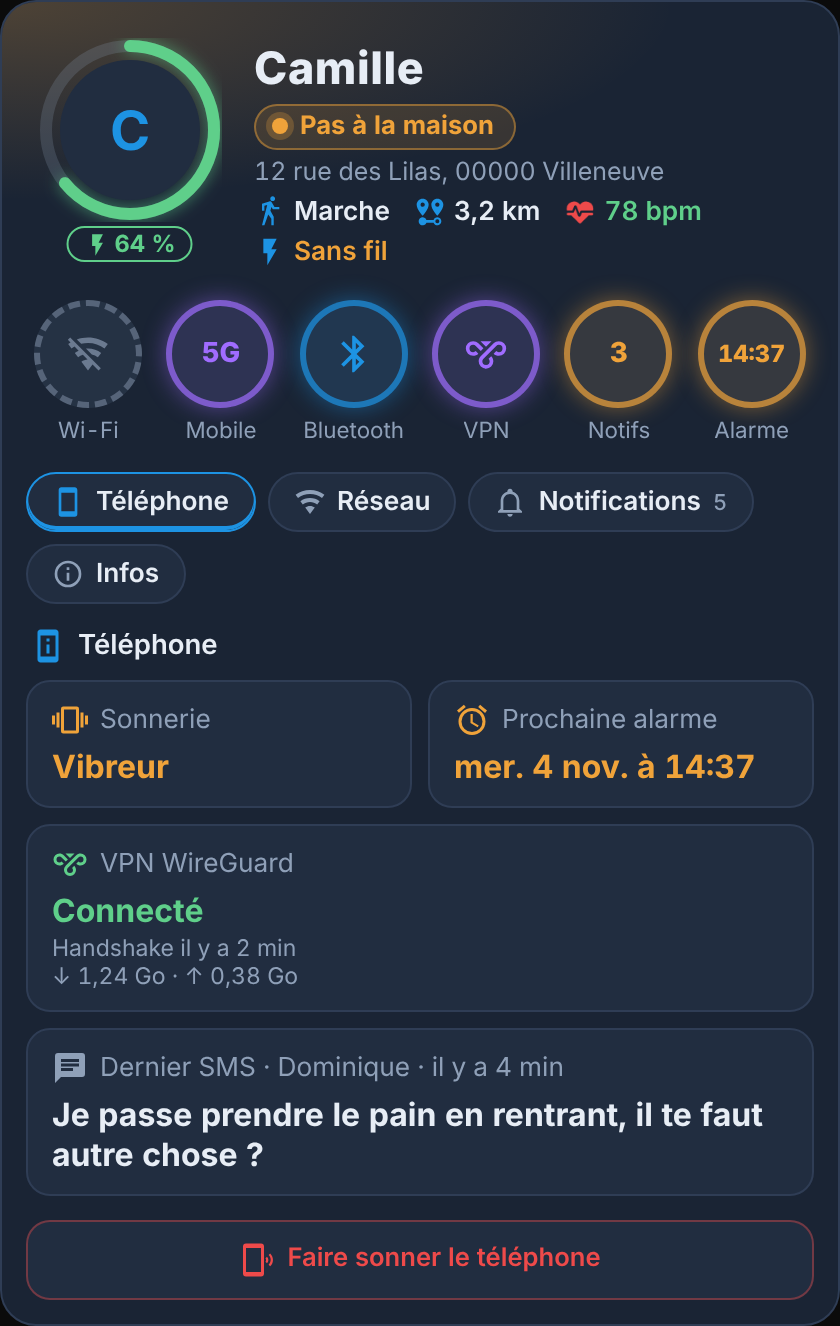
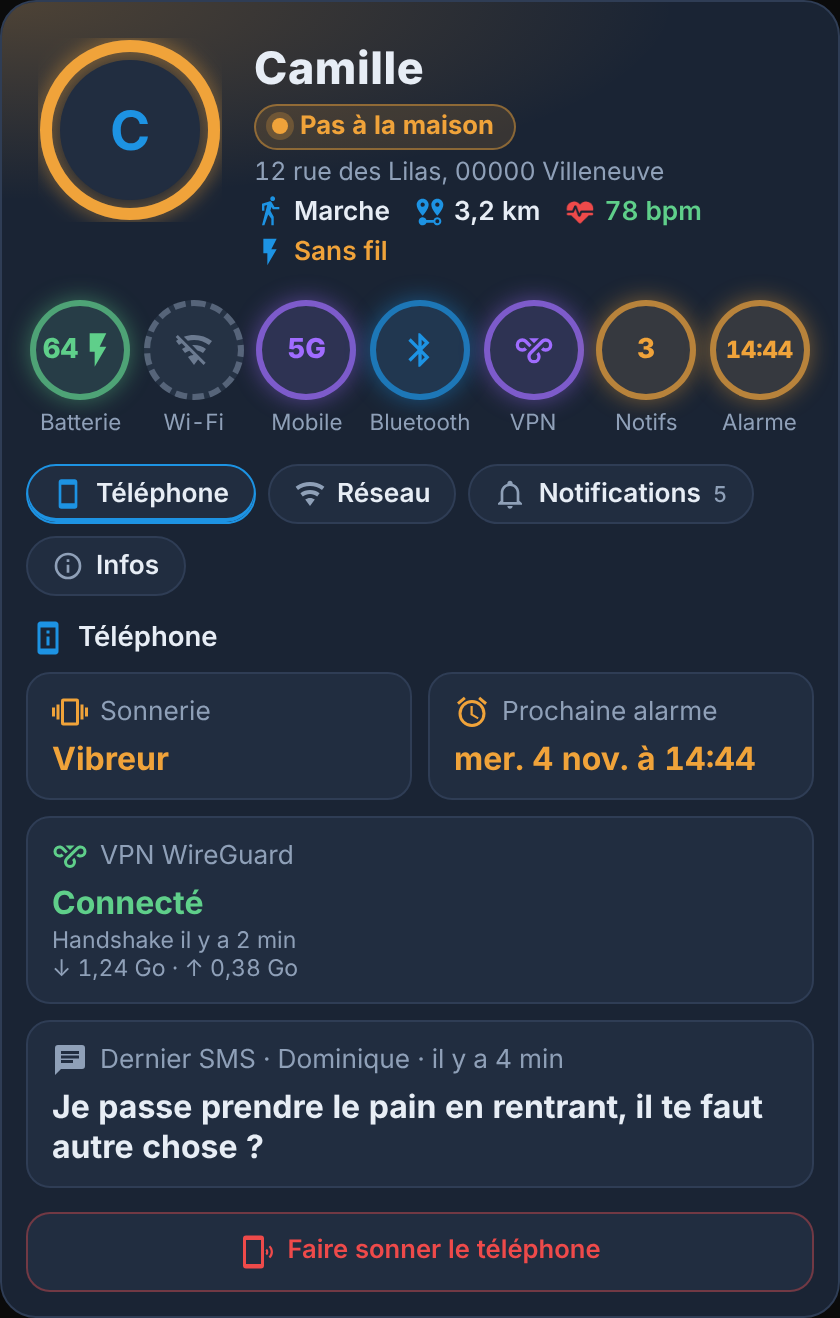
feat(web): anneau de présence vert, orange ou rouge selon la distance (1.1.0-beta.3)
Vert à la maison, orange jusqu'à near_radius km (5 par défaut), rouge au-delà ;
batterie en première pastille ronde.

Claude-Session: https://claude.ai/code/session_01CSixJnFf4qBMac7uTfNvnW

diff --git a/tracker-card.js b/tracker-card.js
@@ -12,7 +12,7 @@
  * Toutes les entités du téléphone peuvent être indiquées à la main sous « phone: ».
  */
 
-const CARD_VERSION = "1.1.0-beta.2";
+const CARD_VERSION = "1.1.0-beta.3";
 
 const define = (name, cls) => { if (!customElements.get(name)) customElements.define(name, cls); };
 const esc = (v) => String(v ?? "").replace(/[&<>"']/g, (c) => ({ "&": "&amp;", "<": "&lt;", ">": "&gt;", '"': "&quot;", "'": "&#39;" }[c]));
@@ -55,21 +55,18 @@ header { display: flex; align-items: center; justify-content: space-between; gap
 .tk-side { display: flex; align-items: center; gap: 6px; flex: none; }
 .tk-hero { --zc: var(--med-muted); position: relative; display: flex; align-items: flex-start; gap: 16px; padding: 18px 18px 12px;
   background: radial-gradient(130% 110% at 0% 0%, color-mix(in srgb, var(--zc) 24%, transparent), transparent 62%); }
-.tk-hero.home { --zc: var(--med-down); } .tk-hero.away { --zc: var(--pc-warn); }
+.tk-hero.home { --zc: var(--med-down); } .tk-hero.near, .tk-hero.away { --zc: var(--pc-warn); } .tk-hero.far { --zc: var(--t-red); }
 .tk-top { position: absolute; top: 10px; right: 14px; display: flex; gap: 6px; align-items: center; font-size: .7rem; font-weight: 600; letter-spacing: 1.5px; text-transform: uppercase; color: var(--med-muted); }
 .tk-top small { letter-spacing: 0; text-transform: none; border: 1px solid var(--med-line); border-radius: 999px; padding: 1px 8px; }
-.tk-ring { position: relative; width: 92px; height: 92px; flex: none; cursor: pointer; margin-bottom: 14px; }
+.tk-ring { position: relative; width: 92px; height: 92px; flex: none; cursor: pointer; }
 .tk-ring > svg { position: absolute; inset: 0; transform: rotate(-90deg); }
 .tk-ring circle { fill: none; stroke-width: 6; }
 .tk-ring .bg { stroke: color-mix(in srgb, var(--med-muted) 22%, transparent); }
-.tk-ring .fg { stroke: var(--bc, var(--med-muted)); stroke-linecap: round; transition: stroke-dashoffset .6s ease, stroke .4s;
-  filter: drop-shadow(0 0 4px color-mix(in srgb, var(--bc, transparent) 60%, transparent)); }
+.tk-ring .fg { stroke: var(--zc); stroke-linecap: round; transition: stroke-dashoffset .6s ease, stroke .4s;
+  filter: drop-shadow(0 0 5px color-mix(in srgb, var(--zc) 60%, transparent)); }
 .tk-face { position: absolute; inset: 11px; border-radius: 50%; overflow: hidden; display: flex; align-items: center; justify-content: center;
   background: var(--med-surface); font-size: 1.7rem; font-weight: 700; color: var(--med-accent, var(--med-blue)); }
 .tk-face img { width: 100%; height: 100%; object-fit: cover; }
-.tk-bat { position: absolute; left: 50%; bottom: -20px; transform: translateX(-50%); display: inline-flex; align-items: center; gap: 2px; white-space: nowrap;
-  padding: 1px 8px; border-radius: 999px; background: var(--med-bg); border: 1px solid var(--bc, var(--med-line)); color: var(--bc, var(--med-text)); font-size: .74rem; font-weight: 700; }
-.tk-bat ha-icon { --mdc-icon-size: 13px; width: 13px; height: 13px; flex: none; display: inline-flex; }
 .tk-id { min-width: 0; flex: 1; display: grid; gap: 4px; padding-top: 4px; }
 .tk-name { font-size: 1.4rem; font-weight: 800; letter-spacing: .3px; line-height: 1.1; overflow: hidden; text-overflow: ellipsis; white-space: nowrap; }
 .tk-zone { justify-self: start; display: inline-flex; align-items: center; gap: 6px; padding: 3px 10px 3px 8px; border-radius: 999px; font-size: .8rem; font-weight: 700;
@@ -79,18 +76,18 @@ header { display: flex; align-items: center; justify-content: space-between; gap
 .tk-meta { display: flex; flex-wrap: wrap; gap: 4px 12px; font-size: .82rem; font-weight: 600; }
 .tk-meta span { display: inline-flex; align-items: center; gap: 4px; } .tk-meta ha-icon { --mdc-icon-size: 16px; color: var(--med-accent, var(--med-blue)); }
 .tk-meta .tk-hr { color: var(--t-red); }
-.tk-dials { display: grid; grid-template-columns: repeat(auto-fit, minmax(54px, 1fr)); gap: 10px 4px; padding: 4px 12px 12px; }
+.tk-dials { display: grid; grid-template-columns: repeat(auto-fit, minmax(46px, 1fr)); gap: 10px 2px; padding: 4px 12px 12px; }
 .tk-dial { display: grid; justify-items: center; gap: 4px; min-width: 0; cursor: default; }
 .tk-dial[data-entity], .tk-dial[data-goto] { cursor: pointer; }
-.tk-dial > div { width: 48px; height: 48px; border-radius: 50%; display: flex; align-items: center; justify-content: center; font-weight: 800; font-size: .86rem;
+.tk-dial > div { width: 44px; height: 44px; border-radius: 50%; display: flex; align-items: center; justify-content: center; font-weight: 800; font-size: .86rem;
   color: var(--c, var(--med-muted)); border: 3px solid color-mix(in srgb, var(--c, var(--med-muted)) 70%, transparent);
   background: color-mix(in srgb, var(--c, var(--med-muted)) 10%, var(--med-surface)); }
 .tk-dial.on > div { box-shadow: 0 0 12px color-mix(in srgb, var(--c) 45%, transparent); }
 .tk-dial.off > div { border-style: dashed; opacity: .7; }
-.tk-dial ha-icon { --mdc-icon-size: 22px; }
+.tk-dial ha-icon { --mdc-icon-size: 20px; }
 .tk-dial span { font-size: .7rem; color: var(--med-muted); max-width: 100%; text-align: center; overflow: hidden; text-overflow: ellipsis; white-space: nowrap; }
 .tk-dial[data-entity]:hover > div, .tk-dial[data-goto]:hover > div { transform: scale(1.06); }
-@container (max-width: 380px) { .tk-dials { grid-template-columns: repeat(auto-fit, minmax(46px, 1fr)); } .tk-ring { width: 76px; height: 76px; } .tk-face { inset: 9px; font-size: 1.4rem; } .tk-name { font-size: 1.15rem; } .tk-dial { min-width: 50px; } .tk-dial > div { width: 42px; height: 42px; } }
+@container (max-width: 380px) { .tk-dials { grid-template-columns: repeat(auto-fit, minmax(40px, 1fr)); } .tk-ring { width: 76px; height: 76px; } .tk-face { inset: 9px; font-size: 1.4rem; } .tk-name { font-size: 1.15rem; } .tk-dial > div { width: 38px; height: 38px; font-size: .78rem; } }
 .pc-tabs { display: flex; flex-wrap: wrap; gap: 6px; padding: 2px 12px 0; }
 .pc-tab { all: unset; cursor: pointer; display: inline-flex; align-items: center; gap: 6px; padding: 6px 12px; border-radius: 999px; white-space: nowrap;
   border: 1px solid var(--med-line); background: var(--med-surface); font-size: .82rem; font-weight: 600; }
@@ -580,8 +577,10 @@ class TrackerCard extends HTMLElement {
     if (this._tab >= panels.length) this._tab = 0;
 
     // en-tête « profil » : photo dans l'anneau de batterie, zone, adresse, activité et distance
-    const C = 2 * Math.PI * 42, pct = Number.isFinite(bat) ? Math.max(0, Math.min(100, bat)) : 0;
-    const bcol = LVL[bl];
+    // anneau de présence : vert à la maison, orange jusqu'à near_radius km (5 par défaut), rouge au-delà
+    const radius = Number(cfg.near_radius) > 0 ? Number(cfg.near_radius) : 5;
+    const pres = !pstate || !ok(pstate) ? "" : home ? "home" : Number.isFinite(km) ? (km <= radius ? "near" : "far") : "away";
+    const presTip = { home: "À la maison", near: `À moins de ${radius} km de la maison`, far: `À plus de ${radius} km de la maison`, away: "Pas à la maison" }[pres] || "Présence inconnue";
     const meta = [
       has("activity") ? `<span><ha-icon icon="${esc(aIcon)}"></ha-icon>${esc(aLbl)}</span>` : "",
       Number.isFinite(km) ? `<span><ha-icon icon="mdi:map-marker-distance"></ha-icon>${esc(fmtKm(km))}</span>` : "",
@@ -593,6 +592,8 @@ class TrackerCard extends HTMLElement {
     const icon = (i) => `<ha-icon icon="${i}"></ha-icon>`;
     const alarmHm = alarmIso ? fmtDate(alarmIso, false) : null;
     const dials = [
+      has("battery") ? dial("battery", "Batterie", `${Number.isFinite(bat) ? Math.round(bat) : "—"}${charging ? `<ha-icon icon="mdi:flash" style="--mdc-icon-size:14px;margin-left:-1px"></ha-icon>` : `<small style="font-size:.62rem">%</small>`}`,
+        LVL[bl], "on", "", `Batterie ${Number.isFinite(bat) ? Math.round(bat) + " %" : ""}${charging ? ` · en charge${charger ? ` (${charger})` : ""}` : ""}`) : "",
       has("wifi_state") || has("wifi_ssid") ? dial(has("wifi_ssid") ? "wifi_ssid" : "wifi_state", "Wi-Fi", icon(wifiOn ? "mdi:wifi" : "mdi:wifi-off"), wifiOn ? "--med-down" : null, wifiOn ? "on" : "off", "", wifiOn ? `Wi-Fi : ${ssid || "connecté"}` : "Wi-Fi désactivé") : "",
       has("data_network") || net === "cellular" ? dial(has("data_network") ? "data_network" : "network_type", "Mobile", dn ? esc(String(dn).replace(/^NR$/i, "5G").slice(0, 4)) : icon("mdi:signal"), dataColor(dn) || "--med-blue", "on") : "",
       has("bt_state") ? dial("bt_state", "Bluetooth", icon(btOn ? "mdi:bluetooth" : "mdi:bluetooth-off"), btOn ? "--med-blue" : null, btOn ? "on" : "off", "", btOn ? (btNone ? "Bluetooth activé" : `Bluetooth : ${btc}`) : "Bluetooth désactivé") : "",
@@ -603,12 +604,11 @@ class TrackerCard extends HTMLElement {
     ].join("");
 
     const html = `
-      <div class="tk-hero ${pstate ? (home ? "home" : "away") : ""}">
+      <div class="tk-hero ${pres}">
         ${cfg.title || demo ? `<div class="tk-top">${esc(cfg.title || "")}${demo ? "<small>Démo</small>" : ""}</div>` : ""}
-        <div class="tk-ring"${has("battery") ? ent("battery") : demo || !cfg.person ? "" : ` data-entity="${esc(cfg.person)}"`} style="--bc:var(${bcol})" title="Batterie">
-          <svg viewBox="0 0 92 92"><circle class="bg" cx="46" cy="46" r="42"></circle>${has("battery") ? `<circle class="fg" cx="46" cy="46" r="42" stroke-dasharray="${C.toFixed(1)}" stroke-dashoffset="${(C * (1 - pct / 100)).toFixed(1)}"></circle>` : ""}</svg>
+        <div class="tk-ring"${demo || !cfg.person ? "" : ` data-entity="${esc(cfg.person)}"`} title="${esc(presTip)}">
+          <svg viewBox="0 0 92 92"><circle class="bg" cx="46" cy="46" r="42"></circle>${pres ? `<circle class="fg" cx="46" cy="46" r="42"></circle>` : ""}</svg>
           <div class="tk-face">${pic ? `<img src="${esc(pic)}" alt="">` : esc((name || "?").trim().charAt(0).toUpperCase())}</div>
-          ${has("battery") ? `<div class="tk-bat">${charging ? `<ha-icon icon="mdi:flash"></ha-icon>` : ""}${Number.isFinite(bat) ? Math.round(bat) + " %" : "—"}</div>` : ""}
         </div>
         <div class="tk-id">
           <div class="tk-name">${esc(name)}</div>
@@ -671,6 +671,7 @@ const SCHEMA = [
   { name: "picture", selector: { text: {} } },
   { name: "find_phone_script", selector: { entity: { domain: ["script", "button", "input_button"] } } },
   { name: "heart_rate", selector: ent("sensor") },
+  { name: "near_radius", selector: { number: { min: 0.5, max: 100, step: 0.5, mode: "box", unit_of_measurement: "km" } } },
   { name: "notifications", selector: { boolean: {} } },
   { name: "system_notifications", selector: { boolean: {} } },
   { name: "notifications_max", selector: { number: { min: 1, max: 50, mode: "box" } } },
@@ -688,6 +689,7 @@ const LABELS = {
   picture: "Photo, adresse d'une image (vide = celle de la personne)",
   find_phone_script: "Bouton « Faire sonner le téléphone » : script ou bouton",
   heart_rate: "Fréquence cardiaque (montre)",
+  near_radius: "Rayon « près de la maison » : anneau orange jusqu'à cette distance, rouge au-delà",
   notifications: "Afficher le contenu des notifications et le dernier SMS",
   system_notifications: "Afficher aussi les notifications du système (Android, constructeur, services Google)",
   notifications_max: "Nombre de notifications listées au plus, par section",
@@ -695,7 +697,7 @@ const LABELS = {
   demo: "Mode démo : personne et téléphone fictifs, pour les captures d'écran",
   ...Object.fromEntries(PHONE_GROUPS.flatMap(([, f]) => f.map(([k, l]) => [k, l]))),
 };
-const DEFAULTS = { title: "", theme: "v2", notifications: true, system_notifications: true, notifications_max: 20, demo: false };
+const DEFAULTS = { title: "", theme: "v2", near_radius: 5, notifications: true, system_notifications: true, notifications_max: 20, demo: false };
 
 class TrackerCardEditor extends HTMLElement {
   setConfig(config) { this._config = { ...config }; this._draw(); }

diff --git a/README.md b/README.md
@@ -43,7 +43,7 @@ Il suffit de choisir la personne : la carte **trouve toute seule les capteurs de
 
 *Captures réalisées en mode démo : personne, adresse et téléphone fictifs.*
 
-**En-tête « profil »** : la photo (ou l'initiale) est entourée d'un **anneau de batterie** coloré selon le niveau, avec le pourcentage et l'éclair de charge. À côté : le nom, la zone dans une pastille (verte à la maison, orange ailleurs, avec un halo de la même couleur en fond), l'adresse, l'activité, la distance de la maison et la fréquence cardiaque. En dessous, une rangée de **pastilles rondes** donne l'état d'un coup d'œil : Wi-Fi, réseau mobile (4G, 5G…), Bluetooth, VPN, nombre de notifications et heure de la prochaine alarme ; une pastille en pointillés signale ce qui est coupé.
+**En-tête « profil »** : la photo (ou l'initiale) est entourée d'un **anneau de présence** : **vert** à la maison, **orange** près de la maison (5 km par défaut, option `near_radius`), **rouge** au-delà. La pastille de zone et le halo de fond prennent la même couleur. À côté : le nom, l'adresse, l'activité, la distance de la maison et la fréquence cardiaque. En dessous, une rangée de **pastilles rondes** donne l'état d'un coup d'œil : batterie (avec l'éclair de charge), Wi-Fi, réseau mobile (4G, 5G…), Bluetooth, VPN, nombre de notifications et heure de la prochaine alarme ; une pastille en pointillés signale ce qui est coupé.
 
 ## Installation
 
@@ -79,6 +79,7 @@ C'est tout : le suivi de position de la personne mène à son téléphone, et la
 | `title` | Titre de la carte (vide : le nom de la personne) | — |
 | `theme` | `v2` bleu nuit, `auto` clair ou sombre selon Home Assistant, `ha` couleurs du thème Home Assistant | `v2` |
 | `find_phone_script` | Script ou bouton qui fait sonner le téléphone : affiche le bouton **Faire sonner le téléphone** | — |
+| `near_radius` | Rayon « près de la maison » en km : anneau orange jusqu'à cette distance, rouge au-delà | `5` |
 | `heart_rate` | Capteur de fréquence cardiaque (montre), affiché à côté de l'activité | — |
 | `notifications` | `false` : ne pas afficher le contenu des notifications (onglet Notifications et dernier SMS) | `true` |
 | `system_notifications` | `false` : ne pas lister les notifications du système (Android, constructeur, services Google) | `true` |
@@ -92,7 +93,7 @@ Activez-les dans l'application compagnon (**Paramètres → Application compagno
 
 | Clé sous `phone:` | Capteur de l'application compagnon | Affichage |
 |---|---|---|
-| `battery` | `…_battery_level` | Anneau de batterie autour de la photo |
+| `battery` | `…_battery_level` | Pastille Batterie |
 | `charging` / `battery_state` | `…_is_charging` (Android) / `…_battery_state` (iPhone) | En charge |
 | `charger_type` | `…_charger_type` | Secteur, USB, sans fil |
 | `activity` | `…_detected_activity` (Android) / `…_activity` (iPhone) | Activité |

diff --git a/.github/release-notes/v1.1.0-beta.3.md b/.github/release-notes/v1.1.0-beta.3.md
@@ -1,0 +1,8 @@
+## Changements
+
+- **Anneau de présence** autour de la photo, à la place de l'anneau de batterie : **vert** à la maison, **orange** près de la maison, **rouge** au-delà. La pastille de zone et le halo de fond prennent la même couleur.
+- Nouvelle option `near_radius` (5 km par défaut) : distance jusqu'à laquelle l'anneau reste orange. Réglable dans l'éditeur visuel.
+- La **batterie** devient la première pastille ronde : pourcentage, couleur selon le niveau, éclair quand le téléphone charge.
+- Pastilles un peu plus compactes : les sept tiennent sur une ligne.
+
+Retours et bugs : [Issues GitHub](https://github.com/Marlboro62/tracker/issues).
